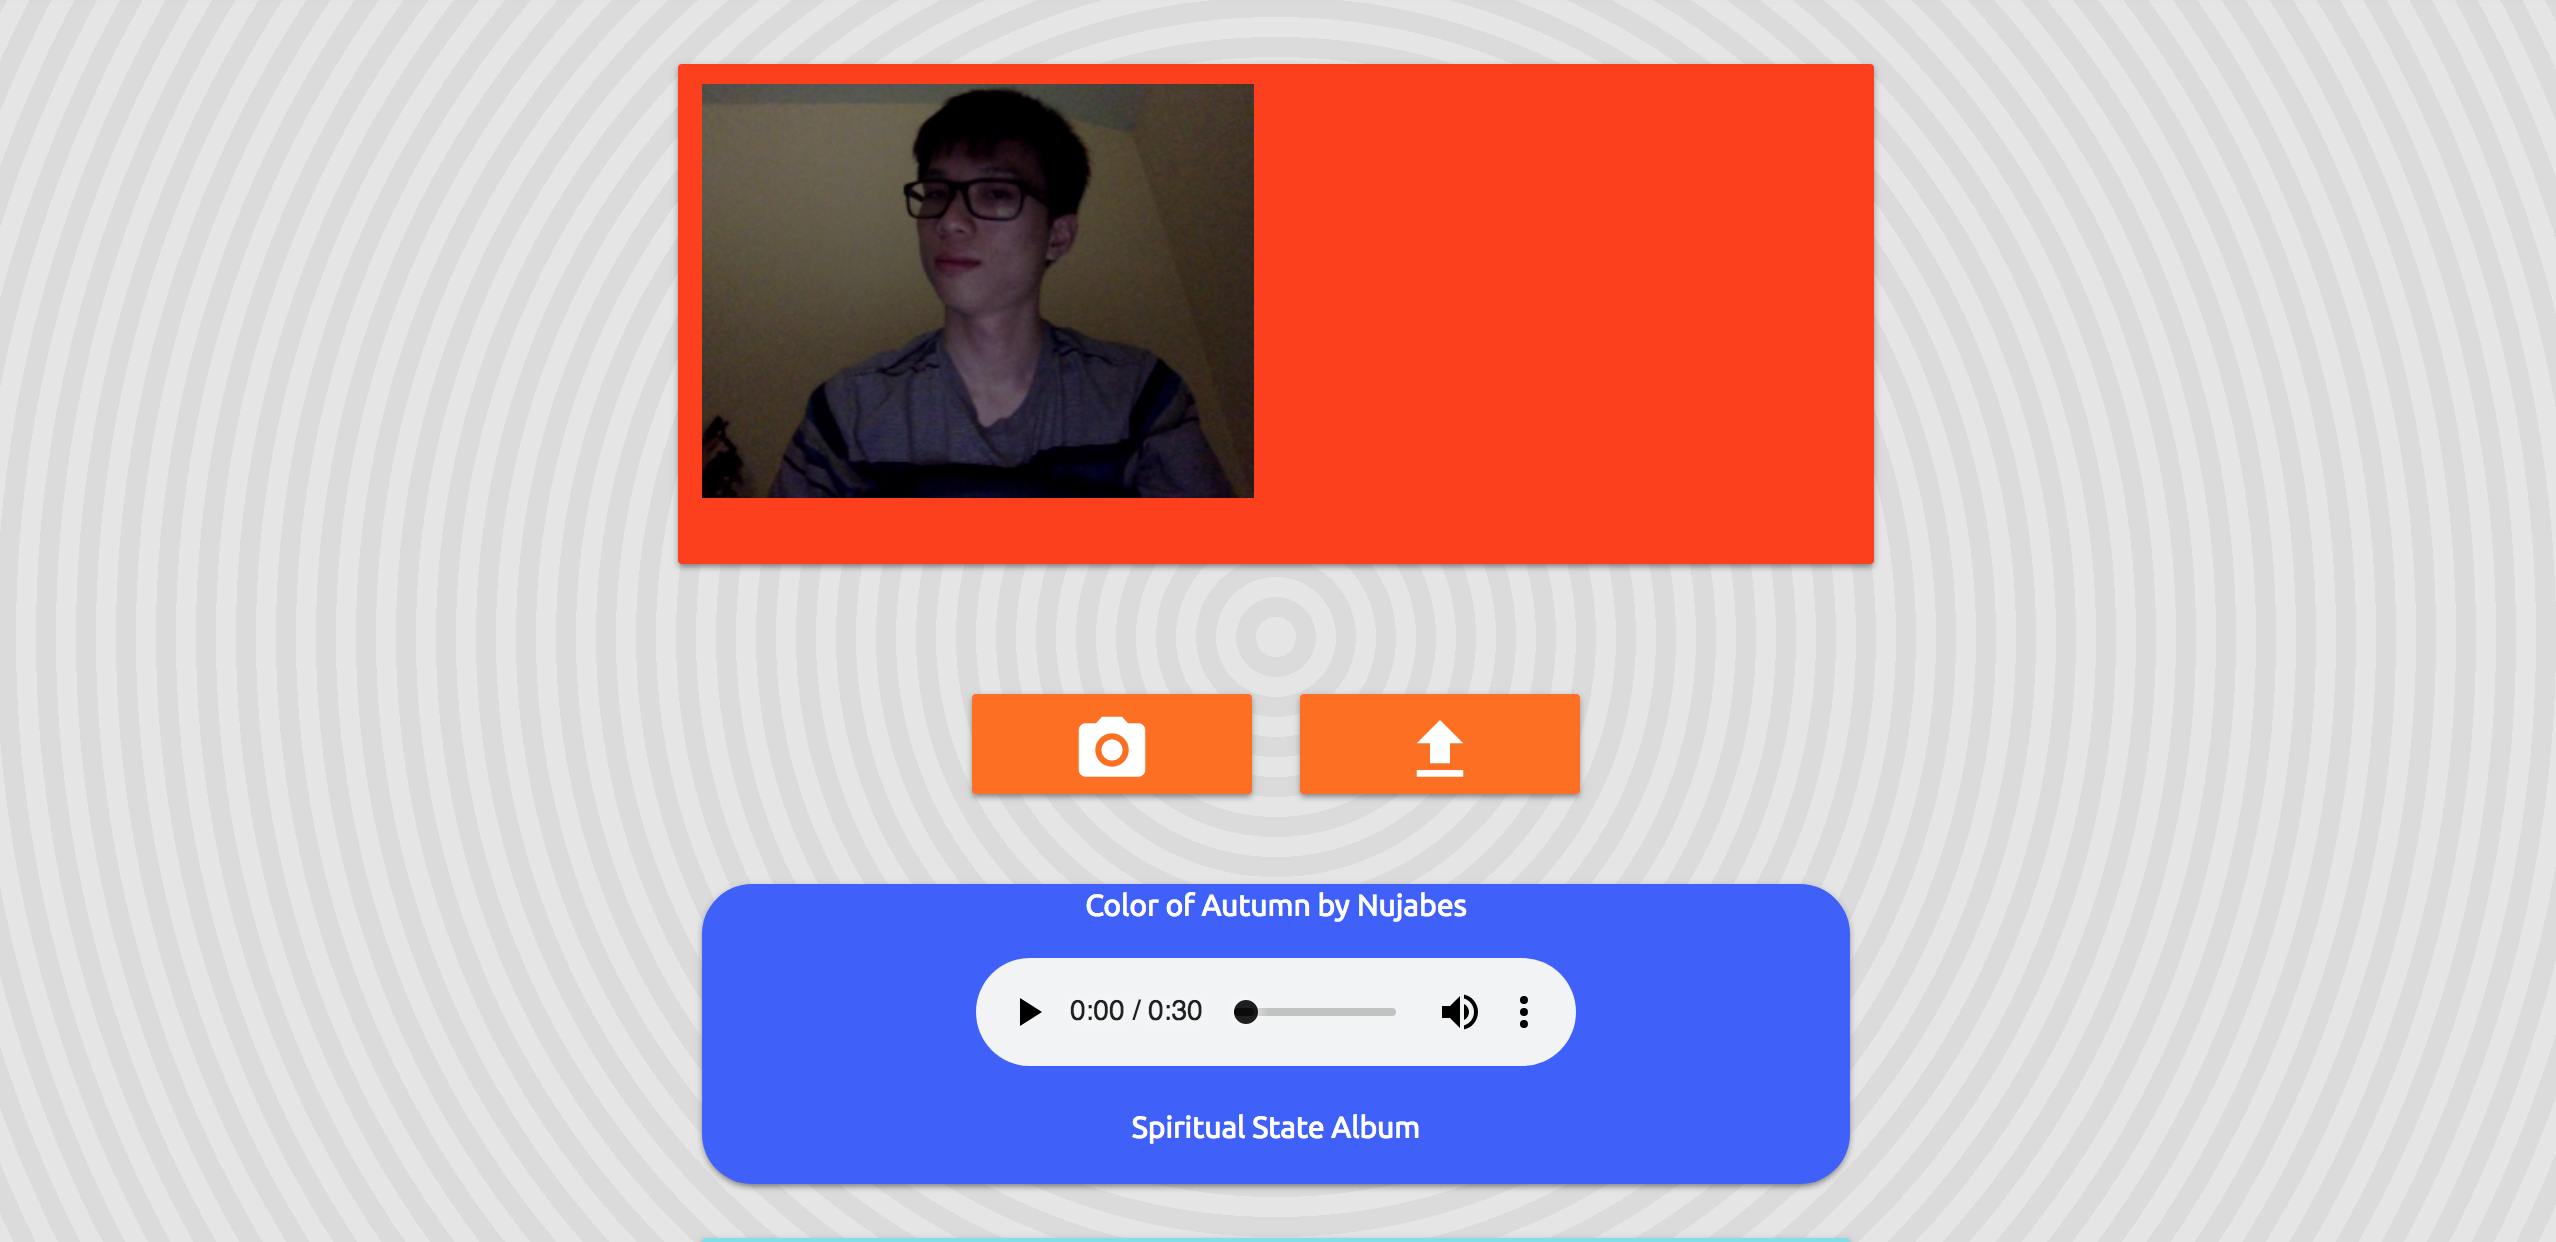
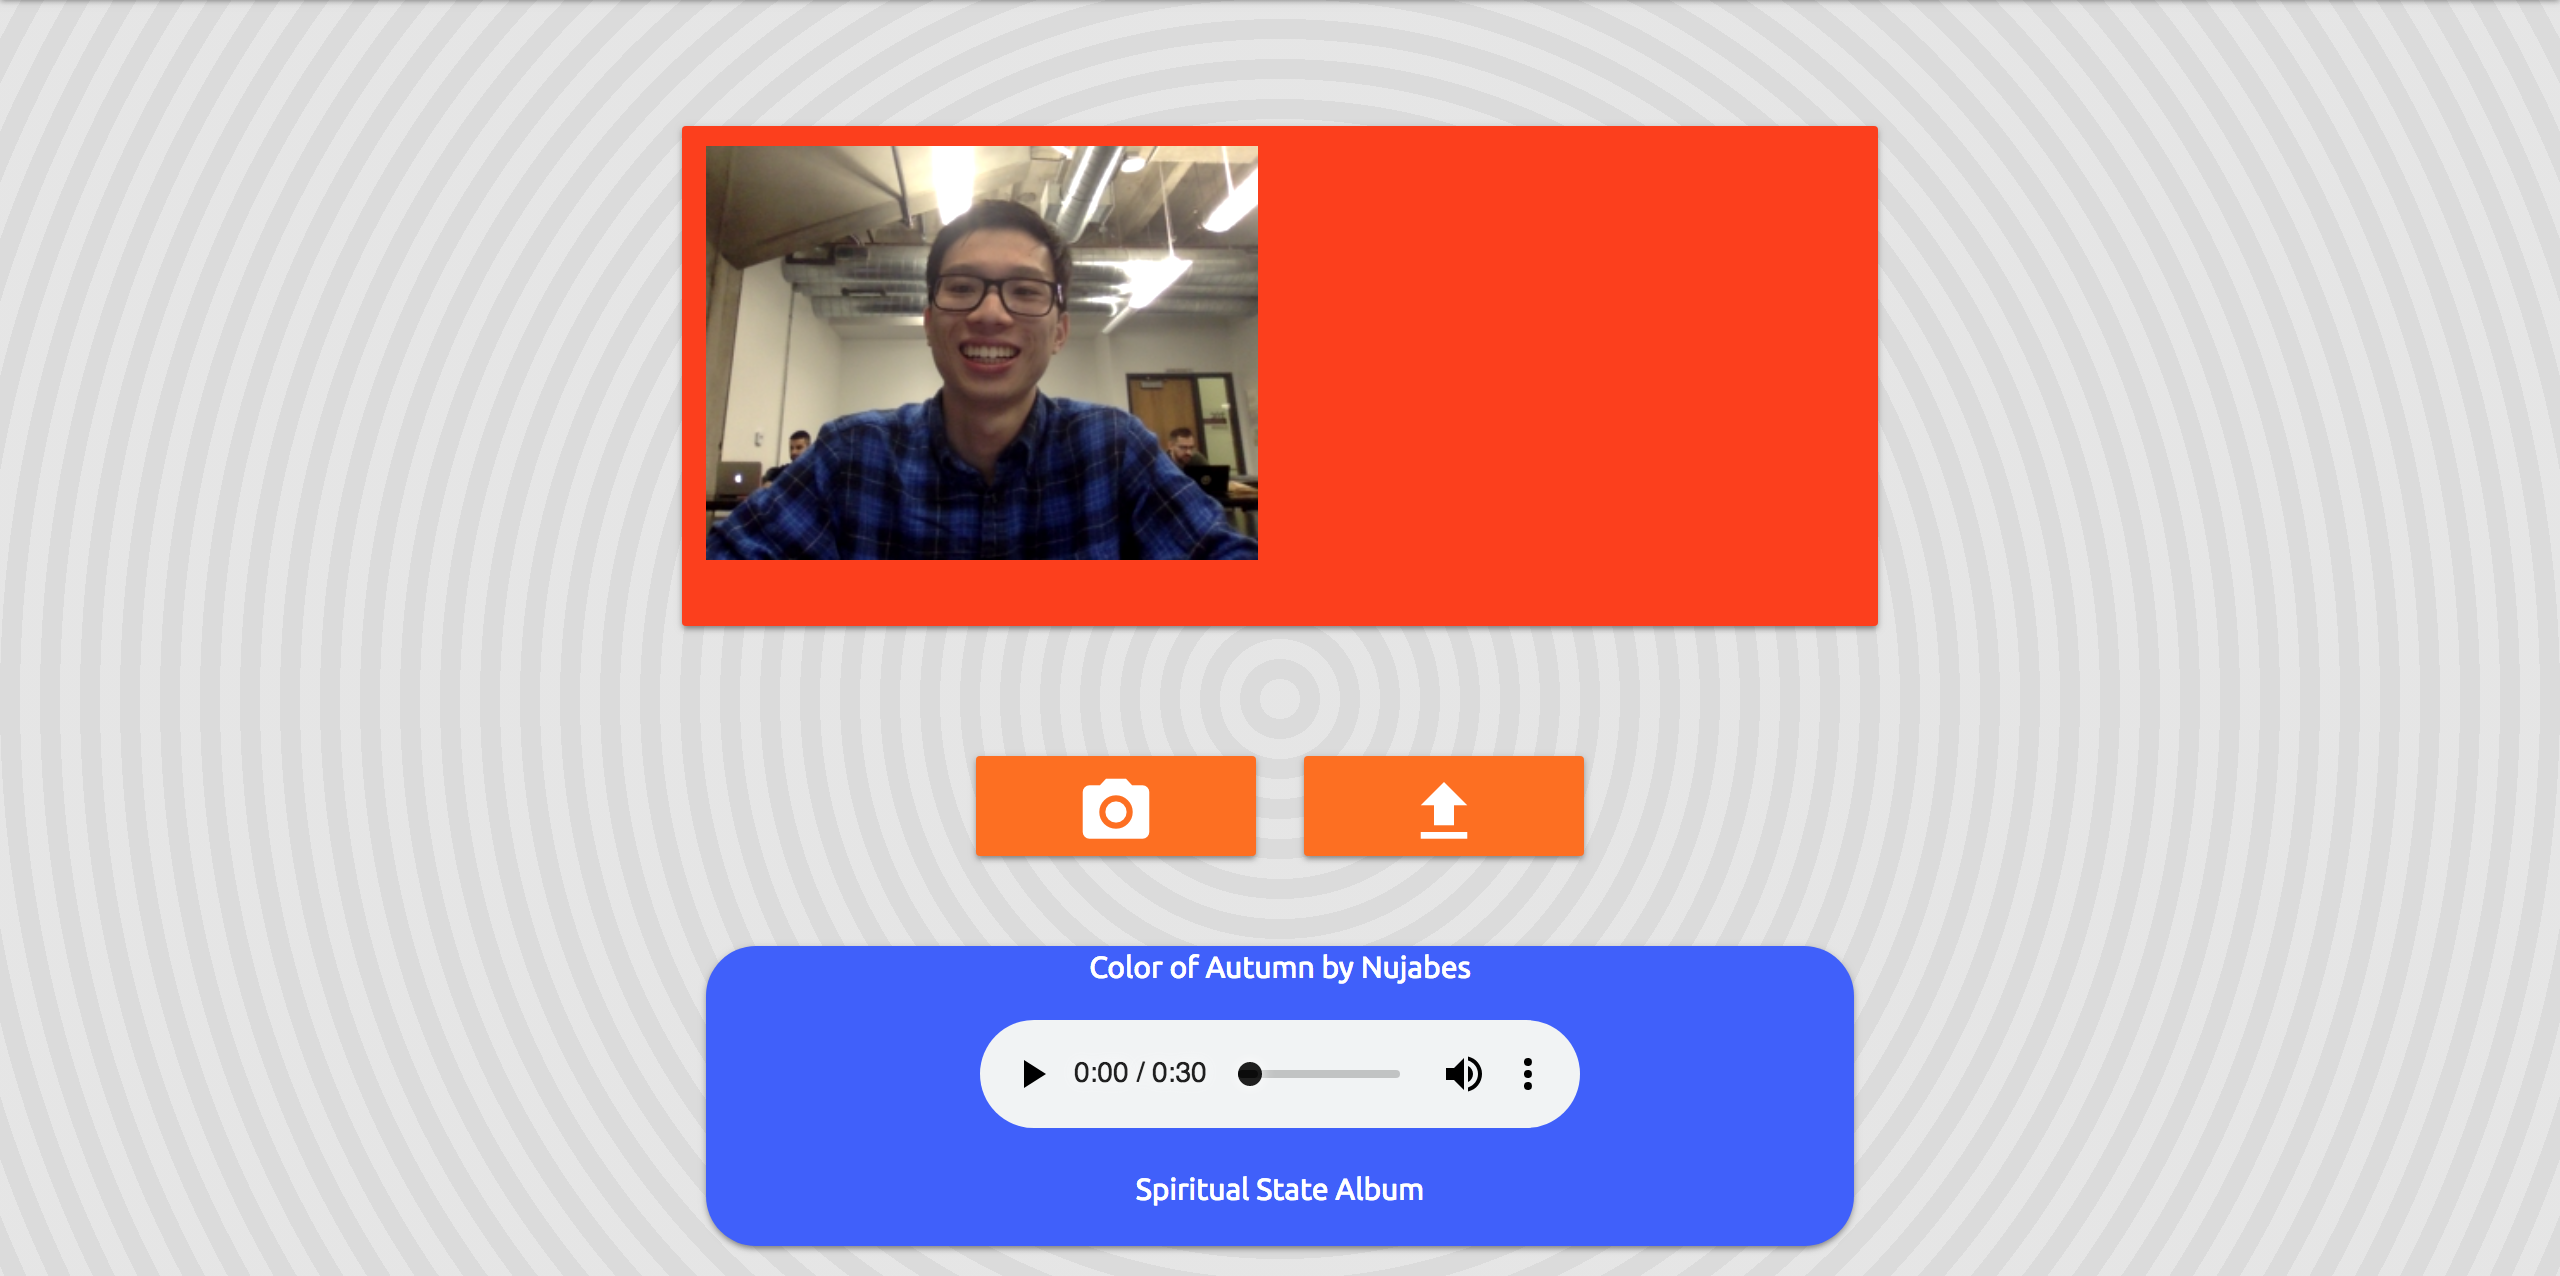
Replaces moodmusic img

Changed region(s): [[0.2473, 0.0, 0.7418, 0.5201], [0.2473, 0.7037, 0.7418, 1.0], [0.3709, 0.5507, 0.6182, 0.6731]]

diff --git a/assets/javascript/main.js b/assets/javascript/main.js
@@ -2,8 +2,3 @@
 $(".port-item").click(function() {
     $(".collapse").collapse("hide");
 });
-
-$(document).on("click", '[data-toggle="lightbox"]', function(event) {
-    event.preventDefault();
-    $(this).ekkoLightbox();
-});
